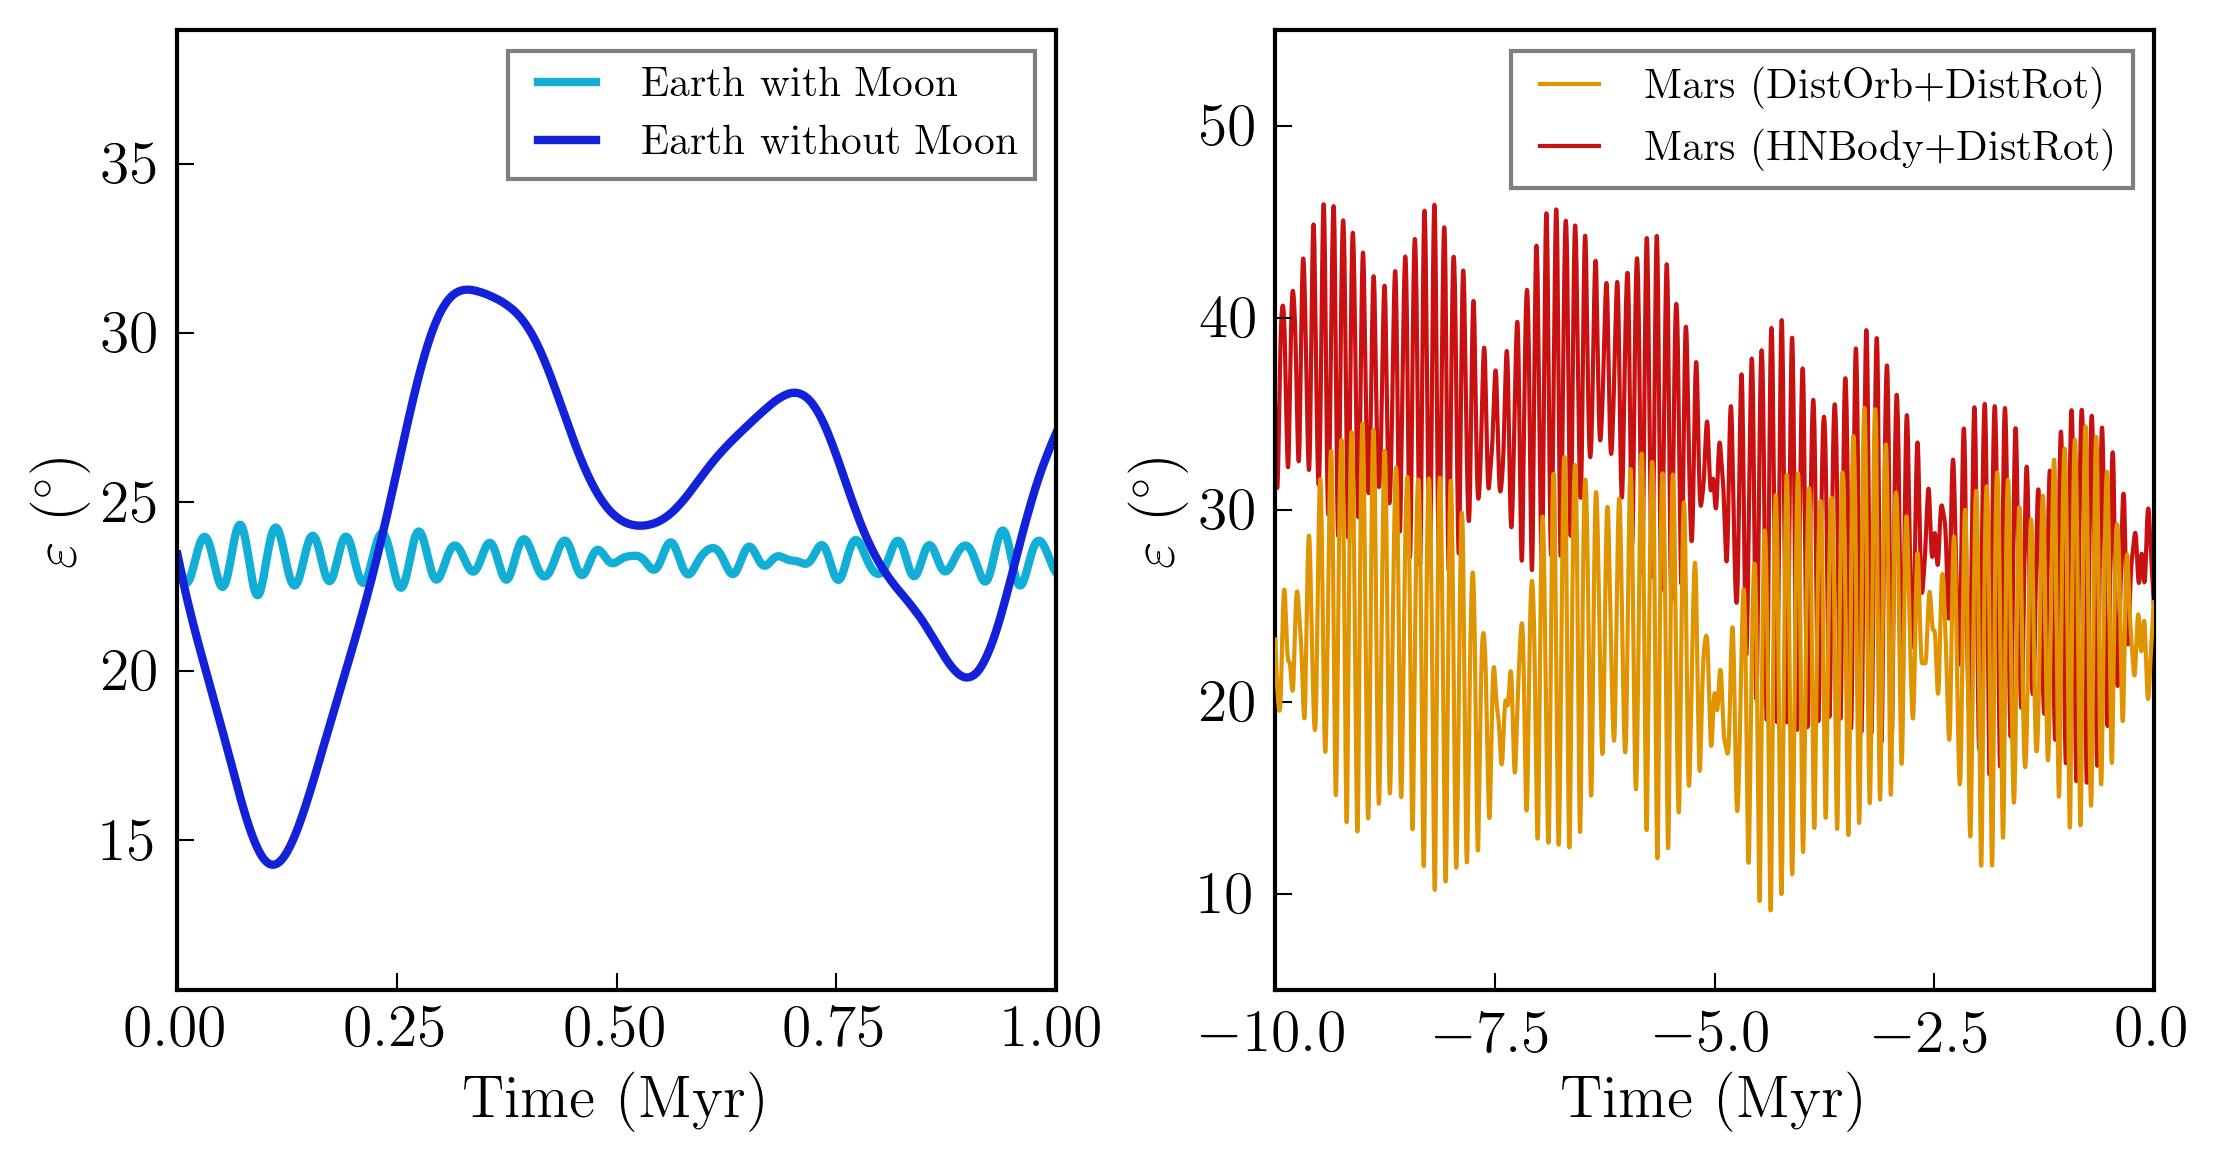
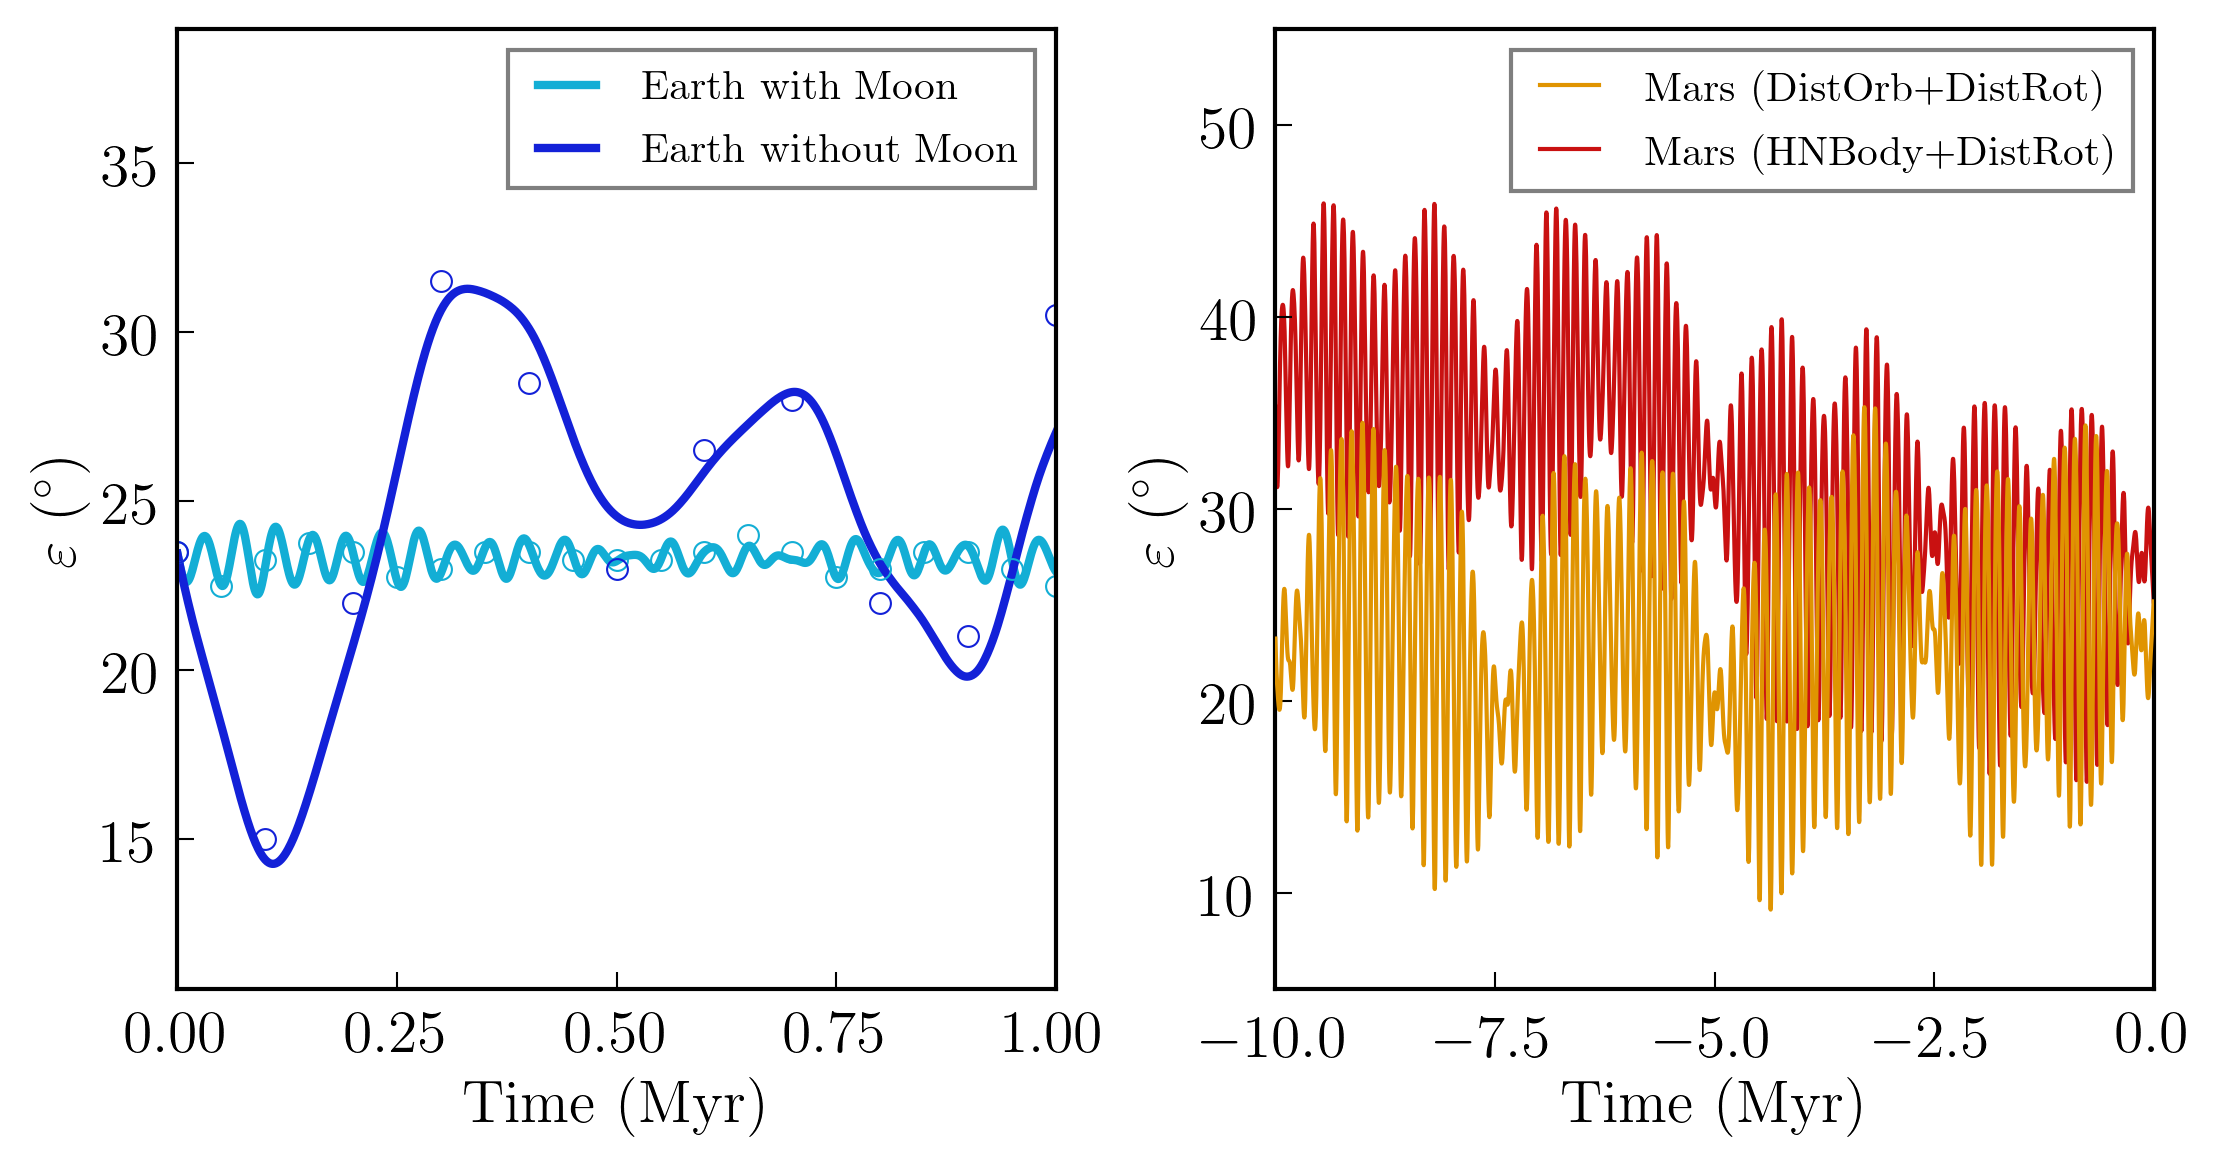
made some plotting changes in cassini and earth climate for vplanet paper

diff --git a/examples/SSDistOrbDistRot/makeplot.py b/examples/SSDistOrbDistRot/makeplot.py
@@ -30,6 +30,8 @@ plt.xlim(0,1)
 plt.ylabel('$e$')
 plt.xticks(visible=False)
 plt.text(0.05,0.85,'Mercury',transform=ax.transAxes)
+merc_de = out.Mercury.Eccentricity - e
+merc_di = out.Mercury.Inc - inc
 
 plt.subplot(4,2,2)
 plt.plot(out.Mercury.Time/1e6,out.Mercury.Inc,'k-',label='DistOrb',zorder=100)
@@ -47,6 +49,8 @@ plt.xlim(0,1)
 plt.ylabel('$e$')
 plt.xticks(visible=False)
 plt.text(0.05,0.85,'Venus',transform=ax.transAxes)
+venus_de = out.Venus.Eccentricity - e
+venus_di = out.Venus.Inc - inc
 
 plt.subplot(4,2,4)
 plt.plot(out.Venus.Time/1e6,out.Venus.Inc,'k-',label='DistOrb',zorder=100)
@@ -63,6 +67,8 @@ plt.xlim(0,1)
 plt.ylabel('$e$')
 plt.xticks(visible=False)
 plt.text(0.05,0.85,'Earth',transform=ax.transAxes)
+earth_de = out.Earth.Eccentricity - e
+earth_di = out.Earth.Inc - inc
 
 plt.subplot(4,2,6)
 plt.plot(out.Earth.Time/1e6,out.Earth.Inc,'k-',label='DistOrb',zorder=100)
@@ -79,6 +85,8 @@ plt.xlim(0,1)
 plt.ylabel('$e$')
 plt.xlabel('Time (Myr)')
 plt.text(0.05,0.05,'Mars',transform=ax.transAxes)
+mars_de = out.Mars.Eccentricity - e
+mars_di = out.Mars.Inc - inc
 
 plt.subplot(4,2,8)
 plt.plot(out.Mars.Time/1e6,out.Mars.Inc,'k-',label='DistOrb',zorder=100)
@@ -105,6 +113,8 @@ plt.xlim(0,1)
 plt.ylabel('$e$')
 plt.xticks(visible=False)
 plt.text(0.05,0.05,'Jupiter',transform=ax.transAxes)
+jup_de = out.Jupiter.Eccentricity - e
+jup_di = out.Jupiter.Inc - inc
 
 plt.subplot(4,2,2)
 plt.plot(out.Jupiter.Time/1e6,out.Jupiter.Inc,'k-',label='DistOrb',zorder=100)
@@ -123,6 +133,8 @@ plt.xlim(0,1)
 plt.ylabel('$e$')
 plt.xticks(visible=False)
 plt.text(0.05,0.9,'Saturn',transform=ax.transAxes)
+sat_de = out.Saturn.Eccentricity - e
+sat_di = out.Saturn.Inc - inc
 
 plt.subplot(4,2,4)
 plt.plot(out.Saturn.Time/1e6,out.Saturn.Inc,'k-',label='DistOrb',zorder=100)
@@ -139,6 +151,8 @@ plt.xlim(0,1)
 plt.ylabel('$e$')
 plt.xticks(visible=False)
 plt.text(0.05,0.85,'Uranus',transform=ax.transAxes)
+george_de = out.George.Eccentricity - e
+george_di = out.George.Inc - inc
 
 plt.subplot(4,2,6)
 plt.plot(out.George.Time/1e6,out.George.Inc,'k-',label='DistOrb',zorder=100)
@@ -155,6 +169,8 @@ plt.xlim(0,1)
 plt.ylabel('$e$')
 plt.xlabel('Time (Myr)')
 plt.text(0.05,0.85,'Neptune',transform=ax.transAxes)
+nept_de = out.Neptune.Eccentricity - e
+nept_di = out.Neptune.Inc - inc
 
 plt.subplot(4,2,8)
 plt.plot(out.Neptune.Time/1e6,out.Neptune.Inc,'k-',label='DistOrb',zorder=100)
@@ -169,6 +185,56 @@ if (sys.argv[1] == 'png'):
     plt.savefig('SSDistOrbDistRotOuter.png',dpi=300)
 plt.close()
 
+fig = plt.figure(figsize=(8.5,4))
+fig.subplots_adjust(hspace=0.1,wspace=0.23)
+
+plt.subplot(2,2,1)
+plt.plot(out.Earth.Time/1e6,merc_de,c=vplot.colors.purple,lw=1,label='Mercury')
+plt.plot(out.Earth.Time/1e6,venus_de,c=vplot.colors.orange,lw=1,label='Venus')
+plt.plot(out.Earth.Time/1e6,earth_de,c=vplot.colors.pale_blue,lw=1,label='Earth')
+plt.plot(out.Earth.Time/1e6,mars_de,c=vplot.colors.red,lw=1,label='Mars')
+plt.ylabel('$\Delta e$')
+plt.xticks(visible=False)
+plt.legend(loc='lower left',fontsize=8,ncol=2)
+
+plt.subplot(2,2,3)
+plt.plot(out.Earth.Time/1e6,jup_de,c=vplot.colors.purple,lw=1,label='Jupiter')
+plt.plot(out.Earth.Time/1e6,sat_de,c=vplot.colors.orange,lw=1,zorder=-1,label='Saturn')
+plt.plot(out.Earth.Time/1e6,george_de,c=vplot.colors.pale_blue,lw=1,label='Uranus')
+plt.plot(out.Earth.Time/1e6,nept_de,c=vplot.colors.red,lw=1,label='Neptune')
+plt.ylabel('$\Delta e$')
+plt.xlabel('Time (Myr)')
+plt.legend(loc='lower left',fontsize=8,ncol=2)
+
+
+plt.subplot(2,2,2)
+plt.plot(out.Earth.Time/1e6,merc_di,c=vplot.colors.purple,lw=1)
+plt.plot(out.Earth.Time/1e6,venus_di,c=vplot.colors.orange,lw=1)
+plt.plot(out.Earth.Time/1e6,earth_di,c=vplot.colors.pale_blue,lw=1)
+plt.plot(out.Earth.Time/1e6,mars_di,c=vplot.colors.red,lw=1)
+plt.xticks(visible=False)
+plt.ylabel('$\Delta i$ ($^{\circ}$)')
+
+plt.subplot(2,2,4)
+plt.plot(out.Earth.Time/1e6,jup_di,c=vplot.colors.purple,lw=1)
+plt.plot(out.Earth.Time/1e6,sat_di,c=vplot.colors.orange,lw=1,zorder=-1)
+plt.plot(out.Earth.Time/1e6,george_di,c=vplot.colors.pale_blue,lw=1)
+plt.plot(out.Earth.Time/1e6,nept_di,c=vplot.colors.red,lw=1)
+plt.ylabel('$\Delta i$ ($^{\circ}$)')
+plt.xlabel('Time (Myr)')
+
+if (sys.argv[1] == 'pdf'):
+    plt.savefig('SSDistOrbDistRotError.pdf',dpi=300)
+if (sys.argv[1] == 'png'):
+    plt.savefig('SSDistOrbDistRotError.png',dpi=300)
+plt.close()
+
+
+laskar_time_wo = np.array([0,0.1,0.2,0.3,0.4,0.5,0.6,0.7,0.8,0.9,1.0])
+laskar_wo = np.array([23.5,15,22,31.5,28.5,23.,26.5,28.,22.,21,30.5])
+
+laskar_time_w = np.array([0,0.05,0.1,0.15,0.2,0.25,0.3,0.35,0.4,0.45,0.5,0.55,0.6,0.65,0.7,0.75,0.8,0.85,0.9,0.95,1.0])
+laskar_w = np.array([23.5,22.5,23.25,23.75,23.5,22.75,23.,23.5,23.5,23.25,23.25,23.25,23.5,24.,23.5,22.75,23,23.5,23.5,23.,22.5])
 
 out2 = vplot.GetOutput('womoon')
 # plt.rcParams["mathtext."]
@@ -181,6 +247,8 @@ fig.subplots_adjust(wspace=0.25)
 plt.subplot(1,2,1)
 plt.plot(out.Earth.Time/1e6,out.Earth.Obliquity,'-',c=vplot.colors.pale_blue,label='Earth with Moon')
 plt.plot(out2.Earth.Time/1e6,out2.Earth.Obliquity,'-',c=vplot.colors.dark_blue,label='Earth without Moon')
+plt.plot(laskar_time_w,laskar_w,'o',c=vplot.colors.pale_blue,mfc='None')
+plt.plot(laskar_time_wo,laskar_wo,'o',c=vplot.colors.dark_blue,mfc='None')
 plt.ylabel(r'$\varepsilon$ ($^{\circ}$)')
 plt.xlabel('Time (Myr)')
 plt.xlim(0,1)

diff --git a/examples/CassiniStates/makeplot.py b/examples/CassiniStates/makeplot.py
@@ -151,6 +151,9 @@ plt.xlabel(r'$\sin{\epsilon}$ $\cos{(\psi+\Omega)}$')
 plt.ylabel(r'$\sin{\epsilon}$ $\sin{(\psi+\Omega)}$')
 plt.xlim(-1.1,1.1)
 plt.ylim(-1.1,1.1)
+plt.arrow(0.45,-0.05,0,0.1,color='k',width=0.01,zorder=10000)
+plt.arrow(1.05,0.05,0,-0.1,color='k',width=0.01,zorder=10000)
+
 
 if (sys.argv[1] == 'pdf'):
     fig.savefig('CassiniStatesSection.pdf')

diff --git a/examples/EarthClimate/makeplot.py b/examples/EarthClimate/makeplot.py
@@ -50,7 +50,7 @@ def comp2huybers(plname,dir='.',xrange=False,show=True):
 
   for ii in np.arange(nfiles):
     out = vplot.GetOutput(dir[ii])
-
+    import pdb; pdb.set_trace()
     #pdb.set_trace()
 
     ctmp = 0
